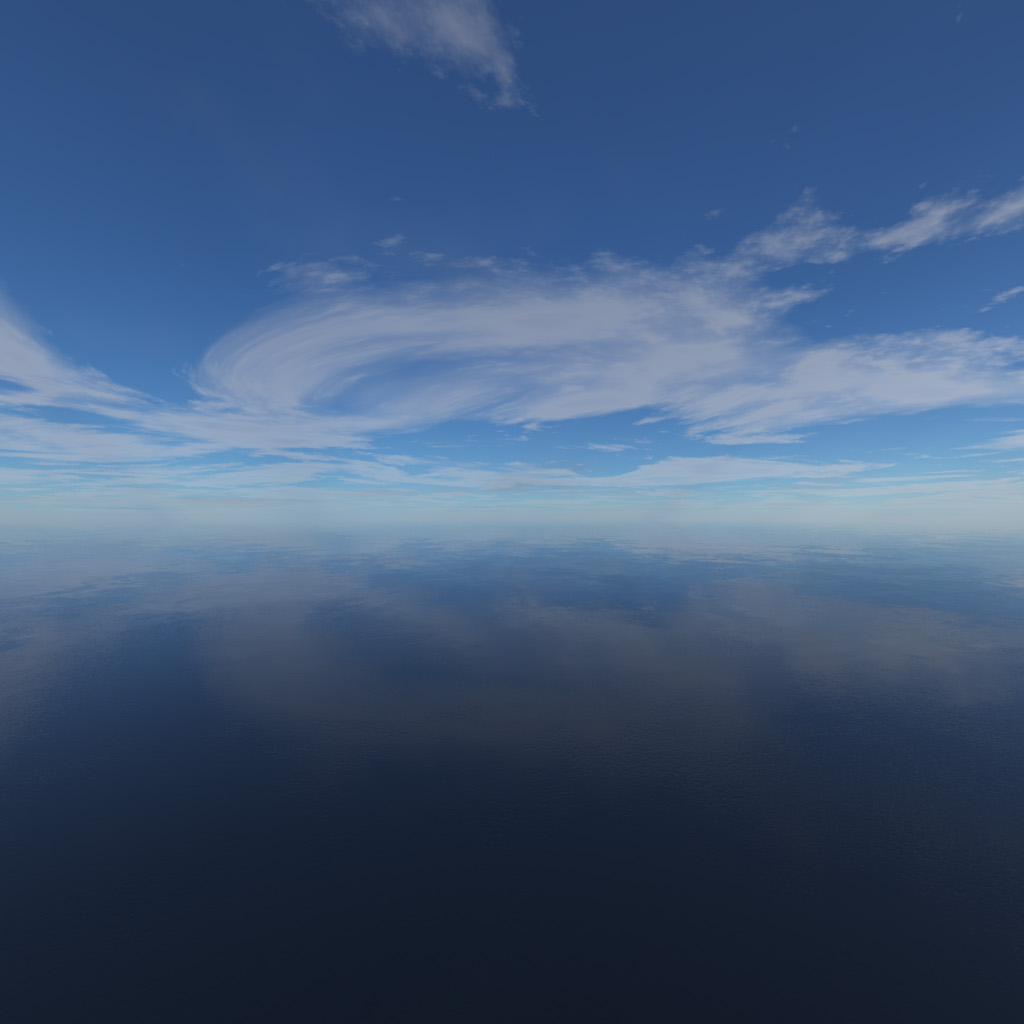
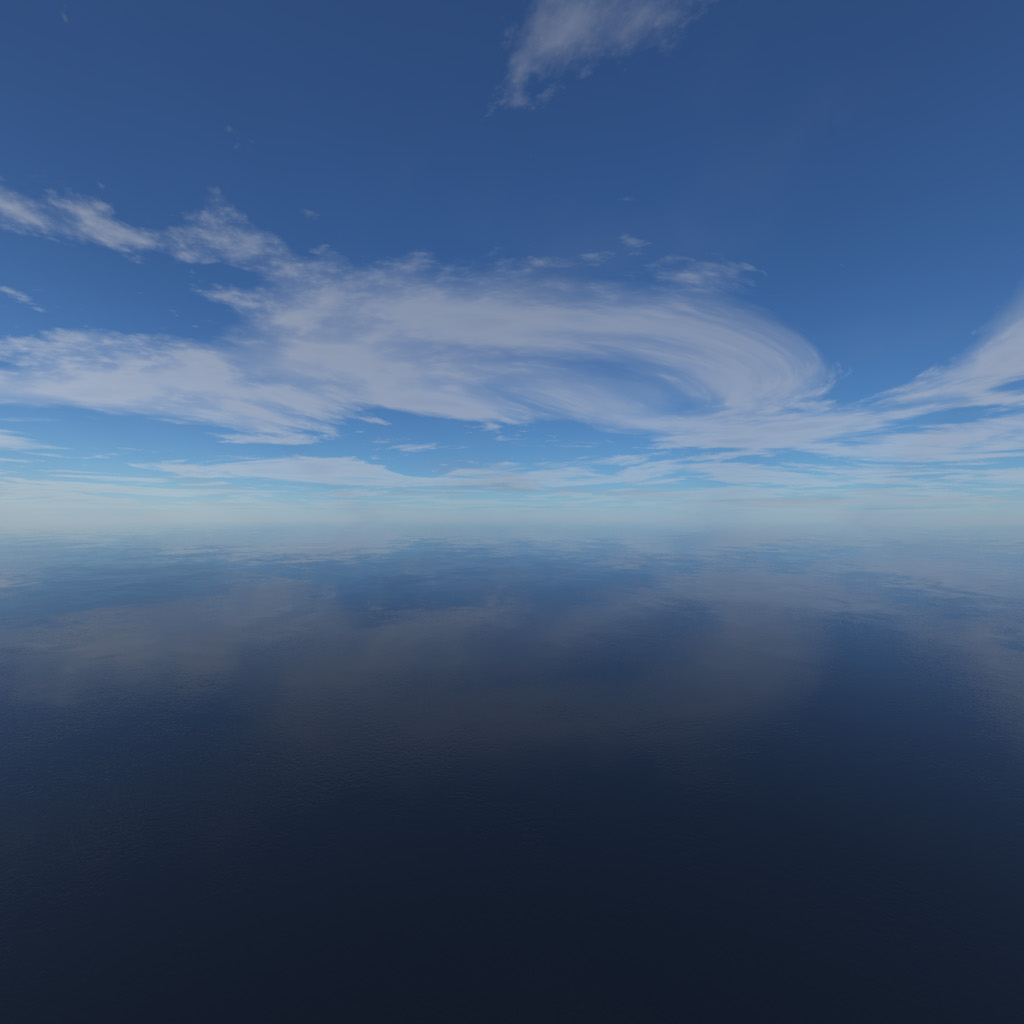
added skyBox, adjusted snowflake positions to fill SkyBox

diff --git a/Snowflake/Snowflake/Objects/SkyBox.cs b/Snowflake/Snowflake/Objects/SkyBox.cs
@@ -2,44 +2,162 @@
 using System.Collections.Generic;
 using System.Linq;
 using System.Text;
+using ComputerGraphics.Components;
+using ComputerGraphics.Infrastructure;
 using ComputerGraphics.Objects;
 using Microsoft.Xna.Framework;
+using Microsoft.Xna.Framework.Content;
 using Microsoft.Xna.Framework.Graphics;
 
 namespace ComputerGraphics.Objects
 {
     public class SkyBox
     {
-        private Quad[] quads;
+        //private Quad[] quads;
+
+        private GraphicsDevice graphicsDevice = ApplicationCore.Singleton.GraphicsDevice;
+        private ContentManager contentManager = ApplicationCore.Singleton.ContentManager;
+        private Camera camera = ApplicationCore.Singleton.Camera;
+        private BasicEffect[] basicEffects;
+
+        private VertexBuffer[] VertexBuffer;
 
         public SkyBox(float length)
         {
-            float half_length = length / 2;
-            this.quads = new Quad[6];            
-            
-            // top & bottom
-            this.quads[0] = new Quad(length, new Vector3(0f,       0f    , 0f), Quad.QuadType.STATIC_ORIENTATION_XZ, "images/skyBottom");
-            this.quads[1] = new Quad(length, new Vector3(0f,       length, 0f), Quad.QuadType.STATIC_ORIENTATION_XZ, "images/skyTop");
+            //this.quads = new Quad[6];
+            this.basicEffects = new BasicEffect[6];
 
-            // left & right
-            this.quads[2] = new Quad(length, new Vector3(-half_length, 0f, 0f), Quad.QuadType.STATIC_ORIENTATION_YZ, "images/skyLeft");
-            this.quads[3] = new Quad(length, new Vector3(+half_length, 0f, 0f), Quad.QuadType.STATIC_ORIENTATION_YZ, "images/skyRight");
-
-            // front and back
-            this.quads[4] = new Quad(length, new Vector3(0f, 0f, +half_length), Quad.QuadType.STATIC_ORIENTATION_XY, "images/skyBack");
-            this.quads[5] = new Quad(length, new Vector3(0f, 0f, -half_length), Quad.QuadType.STATIC_ORIENTATION_XY, "images/skyFront");
-
-            for (int i = 0; i < this.quads.Length; ++i)
+            for (int i = 0; i < 6; ++i)
             {
-                this.quads[i].Update();
+                this.basicEffects[i] = new BasicEffect(this.graphicsDevice);
+
+                this.basicEffects[i].World = this.camera.World;
+                this.basicEffects[i].View = this.camera.View;
+                this.basicEffects[i].Projection = this.camera.Projection;
+                this.basicEffects[i].TextureEnabled = true;
+
+                String textureName = "";
+                #region TextureName
+                switch (i)
+                {
+                    case 0:
+                        textureName = "skyBottom";
+                        break;
+                    case 1:
+                        textureName = "skyTop";
+                        break;
+                    case 2:
+                        textureName = "skyLeft";
+                        break;
+                    case 3:
+                        textureName = "skyRight";
+                        break;
+                    case 4:
+                        textureName = "skyBack";
+                        break;
+                    case 5:
+                        textureName = "skyFront";
+                        break;
+                    default:
+                        break;
+                }
+                #endregion
+                this.basicEffects[i].Texture = this.contentManager.Load<Texture2D>("Images/" + textureName);
+            }
+
+
+            this.VertexBuffer = new VertexBuffer[6];
+
+            VertexPositionNormalTexture[] vertices = new VertexPositionNormalTexture[4];
+            float halfSideLength = length / 2;
+
+
+            Vector3 frontTopLeft     = new Vector3(-halfSideLength, +length, -halfSideLength);
+            Vector3 frontTopRight    = new Vector3(+halfSideLength, +length, -halfSideLength);
+
+            Vector3 frontBottomLeft  = new Vector3(-halfSideLength, +    0f, -halfSideLength);
+            Vector3 frontBottomRight = new Vector3(+halfSideLength, +    0f, -halfSideLength);
+
+            Vector3 backTopLeft      = new Vector3(-halfSideLength, +length, +halfSideLength);
+            Vector3 backTopRight     = new Vector3(+halfSideLength, +length, +halfSideLength);
+
+            Vector3 backBottomLeft   = new Vector3(-halfSideLength, +    0f, +halfSideLength);
+            Vector3 backBottomRight  = new Vector3(+halfSideLength, +    0f, +halfSideLength);
+
+
+            // front
+            vertices[0] = new VertexPositionNormalTexture(frontTopLeft    , Vector3.Backward, new Vector2(0, 0));
+            vertices[1] = new VertexPositionNormalTexture(frontTopRight   , Vector3.Backward, new Vector2(1, 0));
+            vertices[2] = new VertexPositionNormalTexture(frontBottomLeft , Vector3.Backward, new Vector2(0, 1));
+            vertices[3] = new VertexPositionNormalTexture(frontBottomRight, Vector3.Backward, new Vector2(1, 1));
+
+            this.VertexBuffer[5] = new VertexBuffer(ApplicationCore.Singleton.GraphicsDevice, typeof(VertexPositionNormalTexture), 4, BufferUsage.None);
+            this.VertexBuffer[5].SetData<VertexPositionNormalTexture>(vertices);
+
+            // back
+            vertices[0] = new VertexPositionNormalTexture(backTopLeft    , Vector3.Backward, new Vector2(0, 0));
+            vertices[1] = new VertexPositionNormalTexture(backTopRight   , Vector3.Backward, new Vector2(1, 0));
+            vertices[2] = new VertexPositionNormalTexture(backBottomLeft , Vector3.Backward, new Vector2(0, 1));
+            vertices[3] = new VertexPositionNormalTexture(backBottomRight, Vector3.Backward, new Vector2(1, 1));
+
+            this.VertexBuffer[4] = new VertexBuffer(ApplicationCore.Singleton.GraphicsDevice, typeof(VertexPositionNormalTexture), 4, BufferUsage.None);
+            this.VertexBuffer[4].SetData<VertexPositionNormalTexture>(vertices);
+
+            // right
+            vertices[0] = new VertexPositionNormalTexture(   frontTopRight, Vector3.Backward, new Vector2(0, 0));
+            vertices[1] = new VertexPositionNormalTexture(    backTopRight, Vector3.Backward, new Vector2(1, 0));
+            vertices[2] = new VertexPositionNormalTexture(frontBottomRight, Vector3.Backward, new Vector2(0, 1));
+            vertices[3] = new VertexPositionNormalTexture( backBottomRight, Vector3.Backward, new Vector2(1, 1));
+
+            this.VertexBuffer[3] = new VertexBuffer(ApplicationCore.Singleton.GraphicsDevice, typeof(VertexPositionNormalTexture), 4, BufferUsage.None);
+            this.VertexBuffer[3].SetData<VertexPositionNormalTexture>(vertices);
+
+            // left
+            vertices[0] = new VertexPositionNormalTexture(   frontTopLeft, Vector3.Backward, new Vector2(0, 0));
+            vertices[1] = new VertexPositionNormalTexture(    backTopLeft, Vector3.Backward, new Vector2(1, 0));
+            vertices[2] = new VertexPositionNormalTexture(frontBottomLeft, Vector3.Backward, new Vector2(0, 1));
+            vertices[3] = new VertexPositionNormalTexture( backBottomLeft, Vector3.Backward, new Vector2(1, 1));
+
+            this.VertexBuffer[2] = new VertexBuffer(ApplicationCore.Singleton.GraphicsDevice, typeof(VertexPositionNormalTexture), 4, BufferUsage.None);
+            this.VertexBuffer[2].SetData<VertexPositionNormalTexture>(vertices);
+
+            // top
+            vertices[0] = new VertexPositionNormalTexture(frontTopLeft , Vector3.Backward, new Vector2(0, 0));
+            vertices[1] = new VertexPositionNormalTexture(frontTopRight, Vector3.Backward, new Vector2(1, 0));
+            vertices[2] = new VertexPositionNormalTexture( backTopLeft , Vector3.Backward, new Vector2(0, 1));
+            vertices[3] = new VertexPositionNormalTexture( backTopRight, Vector3.Backward, new Vector2(1, 1));
+
+            this.VertexBuffer[1] = new VertexBuffer(ApplicationCore.Singleton.GraphicsDevice, typeof(VertexPositionNormalTexture), 4, BufferUsage.None);
+            this.VertexBuffer[1].SetData<VertexPositionNormalTexture>(vertices);
+
+            // bottom
+            vertices[0] = new VertexPositionNormalTexture(frontBottomLeft , Vector3.Backward, new Vector2(0, 0));
+            vertices[1] = new VertexPositionNormalTexture(frontBottomRight, Vector3.Backward, new Vector2(1, 0));
+            vertices[2] = new VertexPositionNormalTexture( backBottomLeft , Vector3.Backward, new Vector2(0, 1));
+            vertices[3] = new VertexPositionNormalTexture( backBottomRight, Vector3.Backward, new Vector2(1, 1));
+
+            this.VertexBuffer[0] = new VertexBuffer(ApplicationCore.Singleton.GraphicsDevice, typeof(VertexPositionNormalTexture), 4, BufferUsage.None);
+            this.VertexBuffer[0].SetData<VertexPositionNormalTexture>(vertices);
+        }
+
+        public void Update()
+        {
+            for (int i = 0; i < 6; ++i)
+            {
+                this.basicEffects[i].View = this.camera.View;
             }
         }
 
         public void Draw()
         {
-            for (int i = 0; i < quads.Length; ++i)
+            for (int i = 0; i < this.VertexBuffer.Length; ++i)
             {
-                this.quads[i].Draw();
+                this.graphicsDevice.SetVertexBuffer(this.VertexBuffer[i]);
+                foreach (EffectPass pass in this.basicEffects[i].CurrentTechnique.Passes)
+                {
+                    pass.Apply();
+                    this.graphicsDevice.DrawPrimitives(PrimitiveType.TriangleStrip, 0, 2);
+                }
             }
         }
     }

diff --git a/Snowflake/Snowflake/Objects/Quad.cs b/Snowflake/Snowflake/Objects/Quad.cs
@@ -13,7 +13,6 @@ namespace ComputerGraphics.Objects
         public Quad(float sideLenght)
         {
             this.SideLenght = sideLenght;
-
             this.Initialize();
         }
 
@@ -21,10 +20,11 @@ namespace ComputerGraphics.Objects
         {
             VertexPositionNormalTexture[] vertices = new VertexPositionNormalTexture[4];
 
-            vertices[0] = new VertexPositionNormalTexture(new Vector3(0f             , 0f              , 0f), Vector3.Backward, new Vector2(0, 0));
-            vertices[1] = new VertexPositionNormalTexture(new Vector3(this.SideLenght, 0f              , 0f), Vector3.Backward, new Vector2(1, 0));
-            vertices[2] = new VertexPositionNormalTexture(new Vector3(0f             , -this.SideLenght, 0f), Vector3.Backward, new Vector2(0, 1));
-            vertices[3] = new VertexPositionNormalTexture(new Vector3(this.SideLenght, -this.SideLenght, 0f), Vector3.Backward, new Vector2(1, 1));
+            float halfSideLength = this.SideLenght / 2;
+            vertices[0] = new VertexPositionNormalTexture(new Vector3(-halfSideLength, +halfSideLength, 0f), Vector3.Backward, new Vector2(0, 0));
+            vertices[1] = new VertexPositionNormalTexture(new Vector3(+halfSideLength, +halfSideLength, 0f), Vector3.Backward, new Vector2(1, 0));
+            vertices[2] = new VertexPositionNormalTexture(new Vector3(-halfSideLength, -halfSideLength, 0f), Vector3.Backward, new Vector2(0, 1));
+            vertices[3] = new VertexPositionNormalTexture(new Vector3(+halfSideLength, -halfSideLength, 0f), Vector3.Backward, new Vector2(1, 1));
 
             this.VertexBuffer = new VertexBuffer(ApplicationCore.Singleton.GraphicsDevice, typeof(VertexPositionNormalTexture), 4, BufferUsage.WriteOnly);
             this.VertexBuffer.SetData<VertexPositionNormalTexture>(vertices);

diff --git a/Snowflake/Snowflake/Game1.cs b/Snowflake/Snowflake/Game1.cs
@@ -19,6 +19,7 @@ namespace ComputerGraphics
         private SpriteBatch spriteBatch;
 
         private Cloud cloud;
+        private SkyBox skyBox;
  
         public Game1()
             : base()
@@ -58,6 +59,7 @@ namespace ComputerGraphics
             // Create a new SpriteBatch, which can be used to draw textures.
             this.spriteBatch = new SpriteBatch(ApplicationCore.Singleton.GraphicsDevice);
             this.cloud = new Cloud();
+            this.skyBox = new SkyBox(50f);
         }
 
         /// <summary>
@@ -80,6 +82,7 @@ namespace ComputerGraphics
 
             ApplicationCore.Singleton.Camera.Update();
             this.cloud.Update();
+            this.skyBox.Update();
 
             base.Update(gameTime);
         }
@@ -91,8 +94,9 @@ namespace ComputerGraphics
         protected override void Draw(GameTime gameTime)
         {
             GraphicsDevice.Clear(Color.Black);
+            this.skyBox.Draw();
             this.cloud.Draw();
-            base.Draw(gameTime);
+            base.Draw(gameTime);            
         }
     }
 }

diff --git a/Snowflake/Snowflake/Objects/Cloud.cs b/Snowflake/Snowflake/Objects/Cloud.cs
@@ -25,9 +25,9 @@ namespace ComputerGraphics.Objects
             for (int i = 0, numSnowflakes = Cloud.random.Next(0, 10000); i < numSnowflakes; i++)
             {
                 Vector3 vec;
-                vec.X = (float) Cloud.random.NextDouble() * 20f;
-                vec.Y = (float) Cloud.random.NextDouble() * 15f;
-                vec.Z = (float) Cloud.random.NextDouble() * 15f;
+                vec.X = (float) Cloud.random.NextDouble() * 50f - 25f;
+                vec.Y = (float) Cloud.random.NextDouble() * 50f;
+                vec.Z = (float) Cloud.random.NextDouble() * 50f - 25f;
                 this.snowflakes.Add(new Snowflake(vec, temperature));
             }
 

diff --git a/Snowflake/Snowflake/Objects/Snowflake.cs b/Snowflake/Snowflake/Objects/Snowflake.cs
@@ -80,7 +80,7 @@ namespace ComputerGraphics.Objects
             this.basicEffect.View = this.camera.View;
             Position -= new Vector3(0f, this.mass, 0f); // not correct but a bit randomness
             angle += 0.1f;
-            this.basicEffect.World = /* Matrix.CreateRotationX(angle) */ Matrix.CreateTranslation(Position);
+            this.basicEffect.World = /*Matrix.CreateRotationX(angle) +*/ Matrix.CreateTranslation(Position);
         }
 
         public void Draw()
